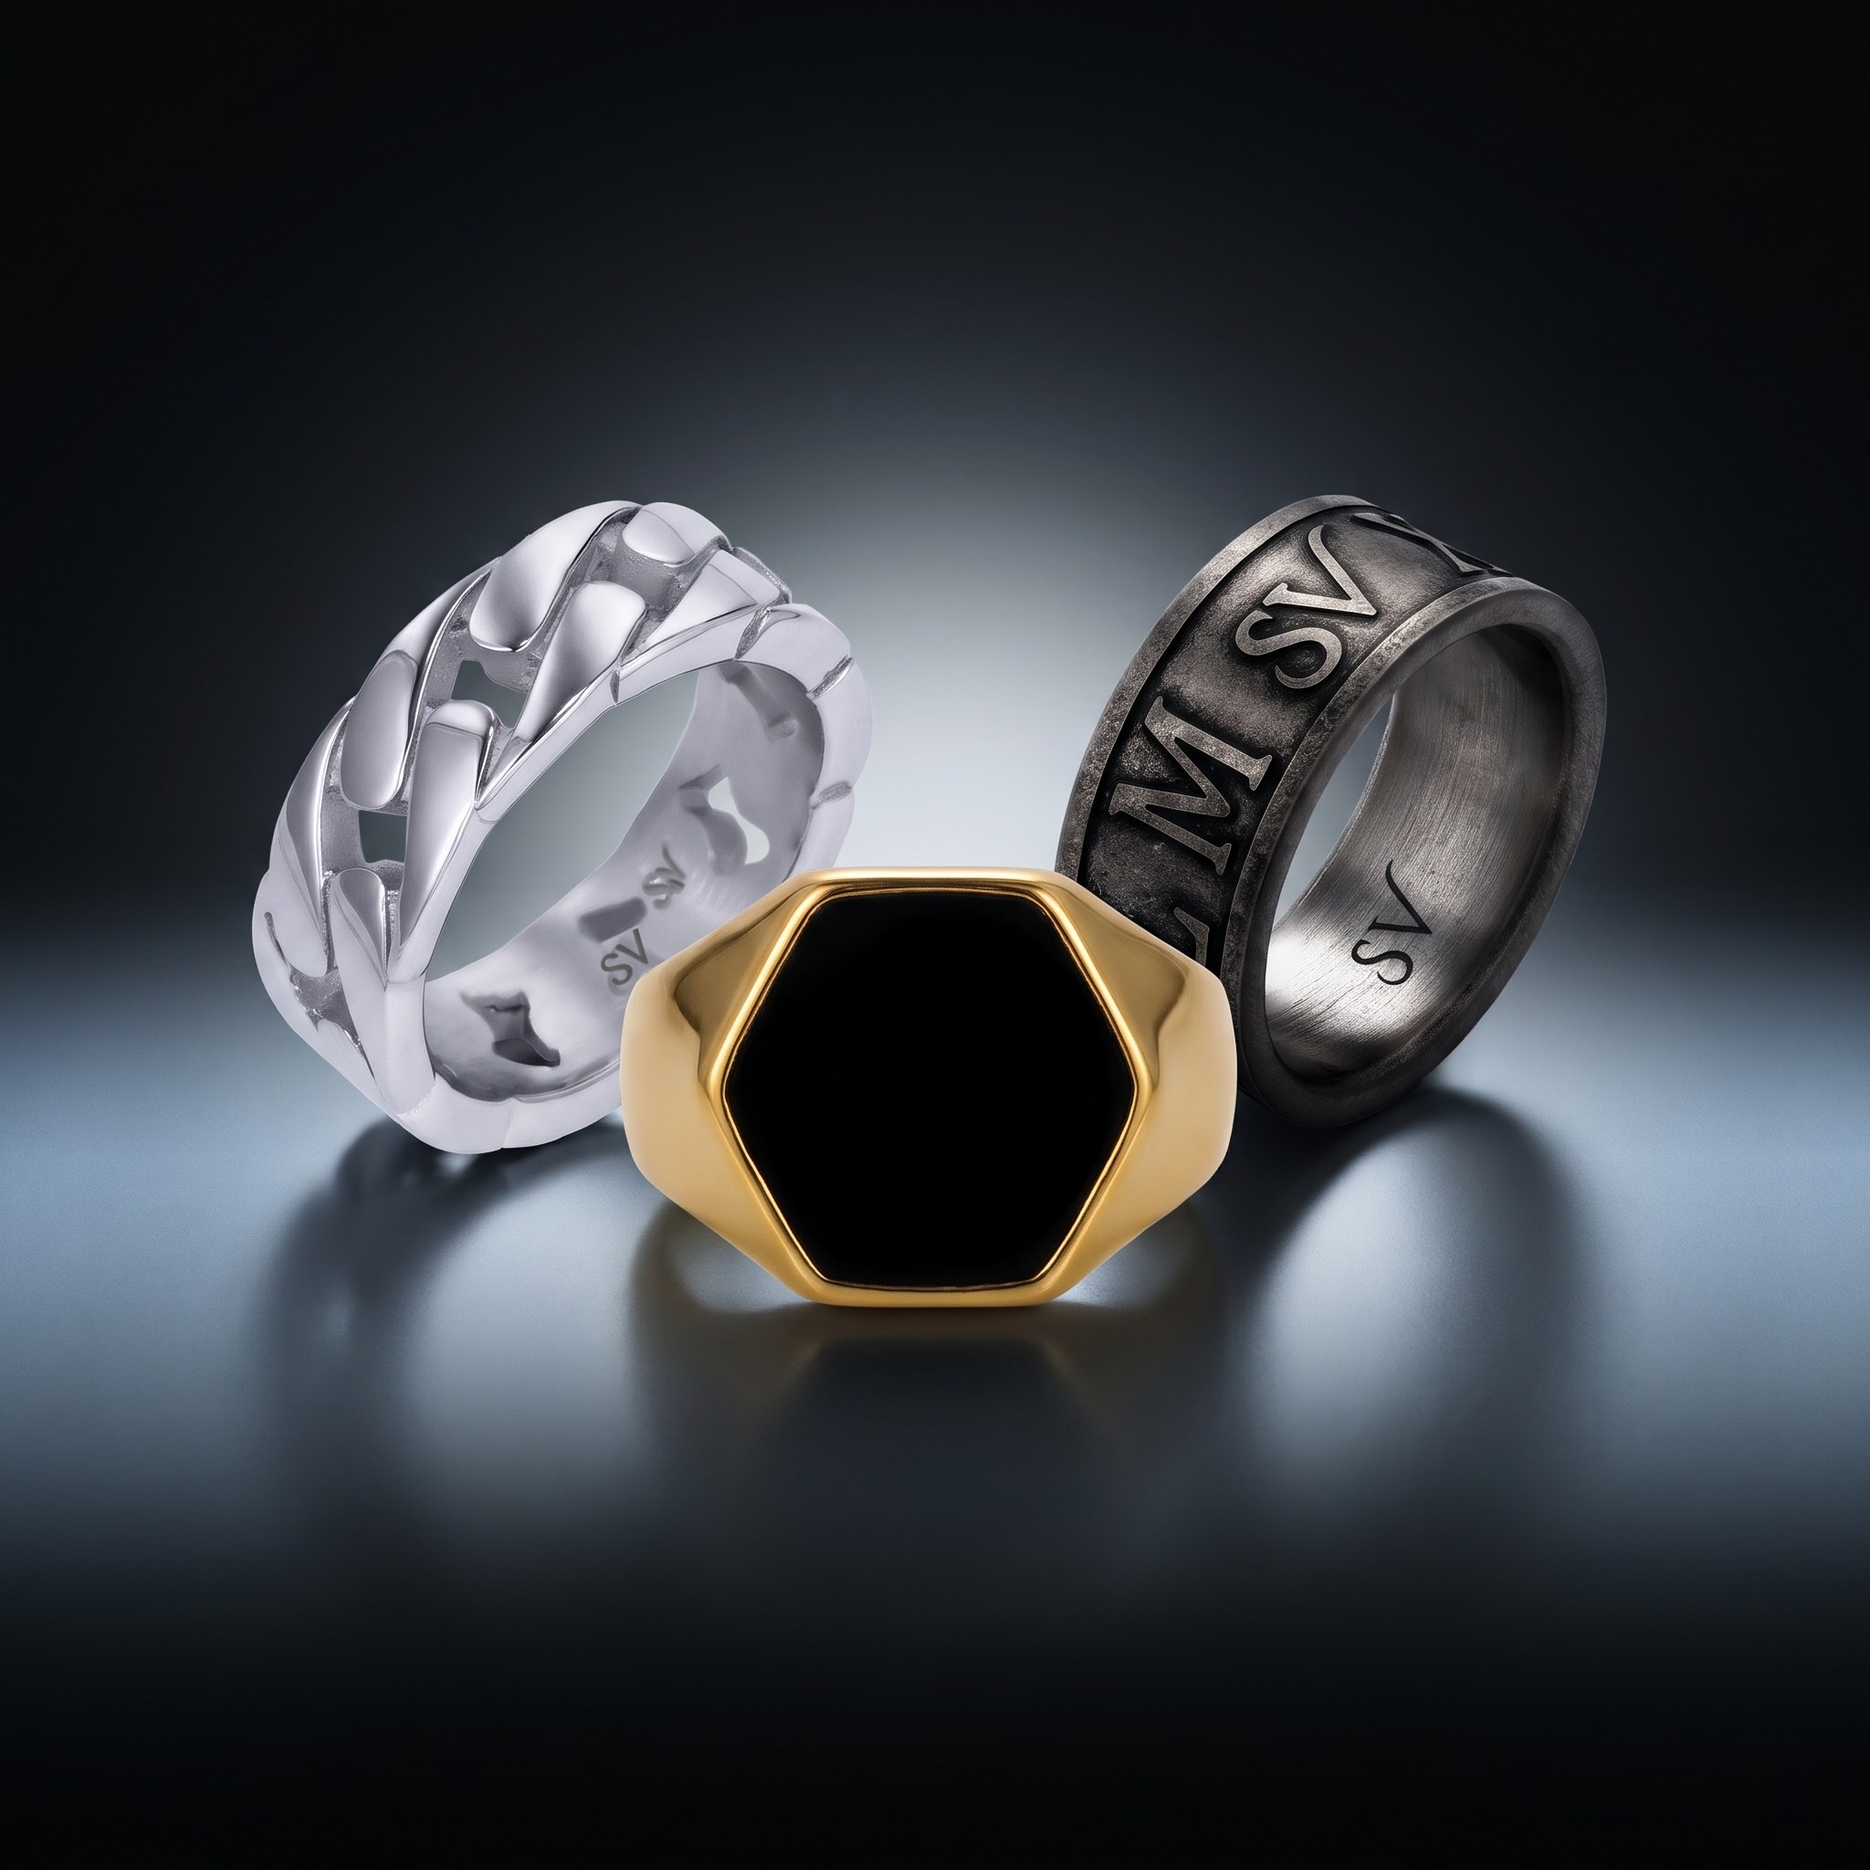
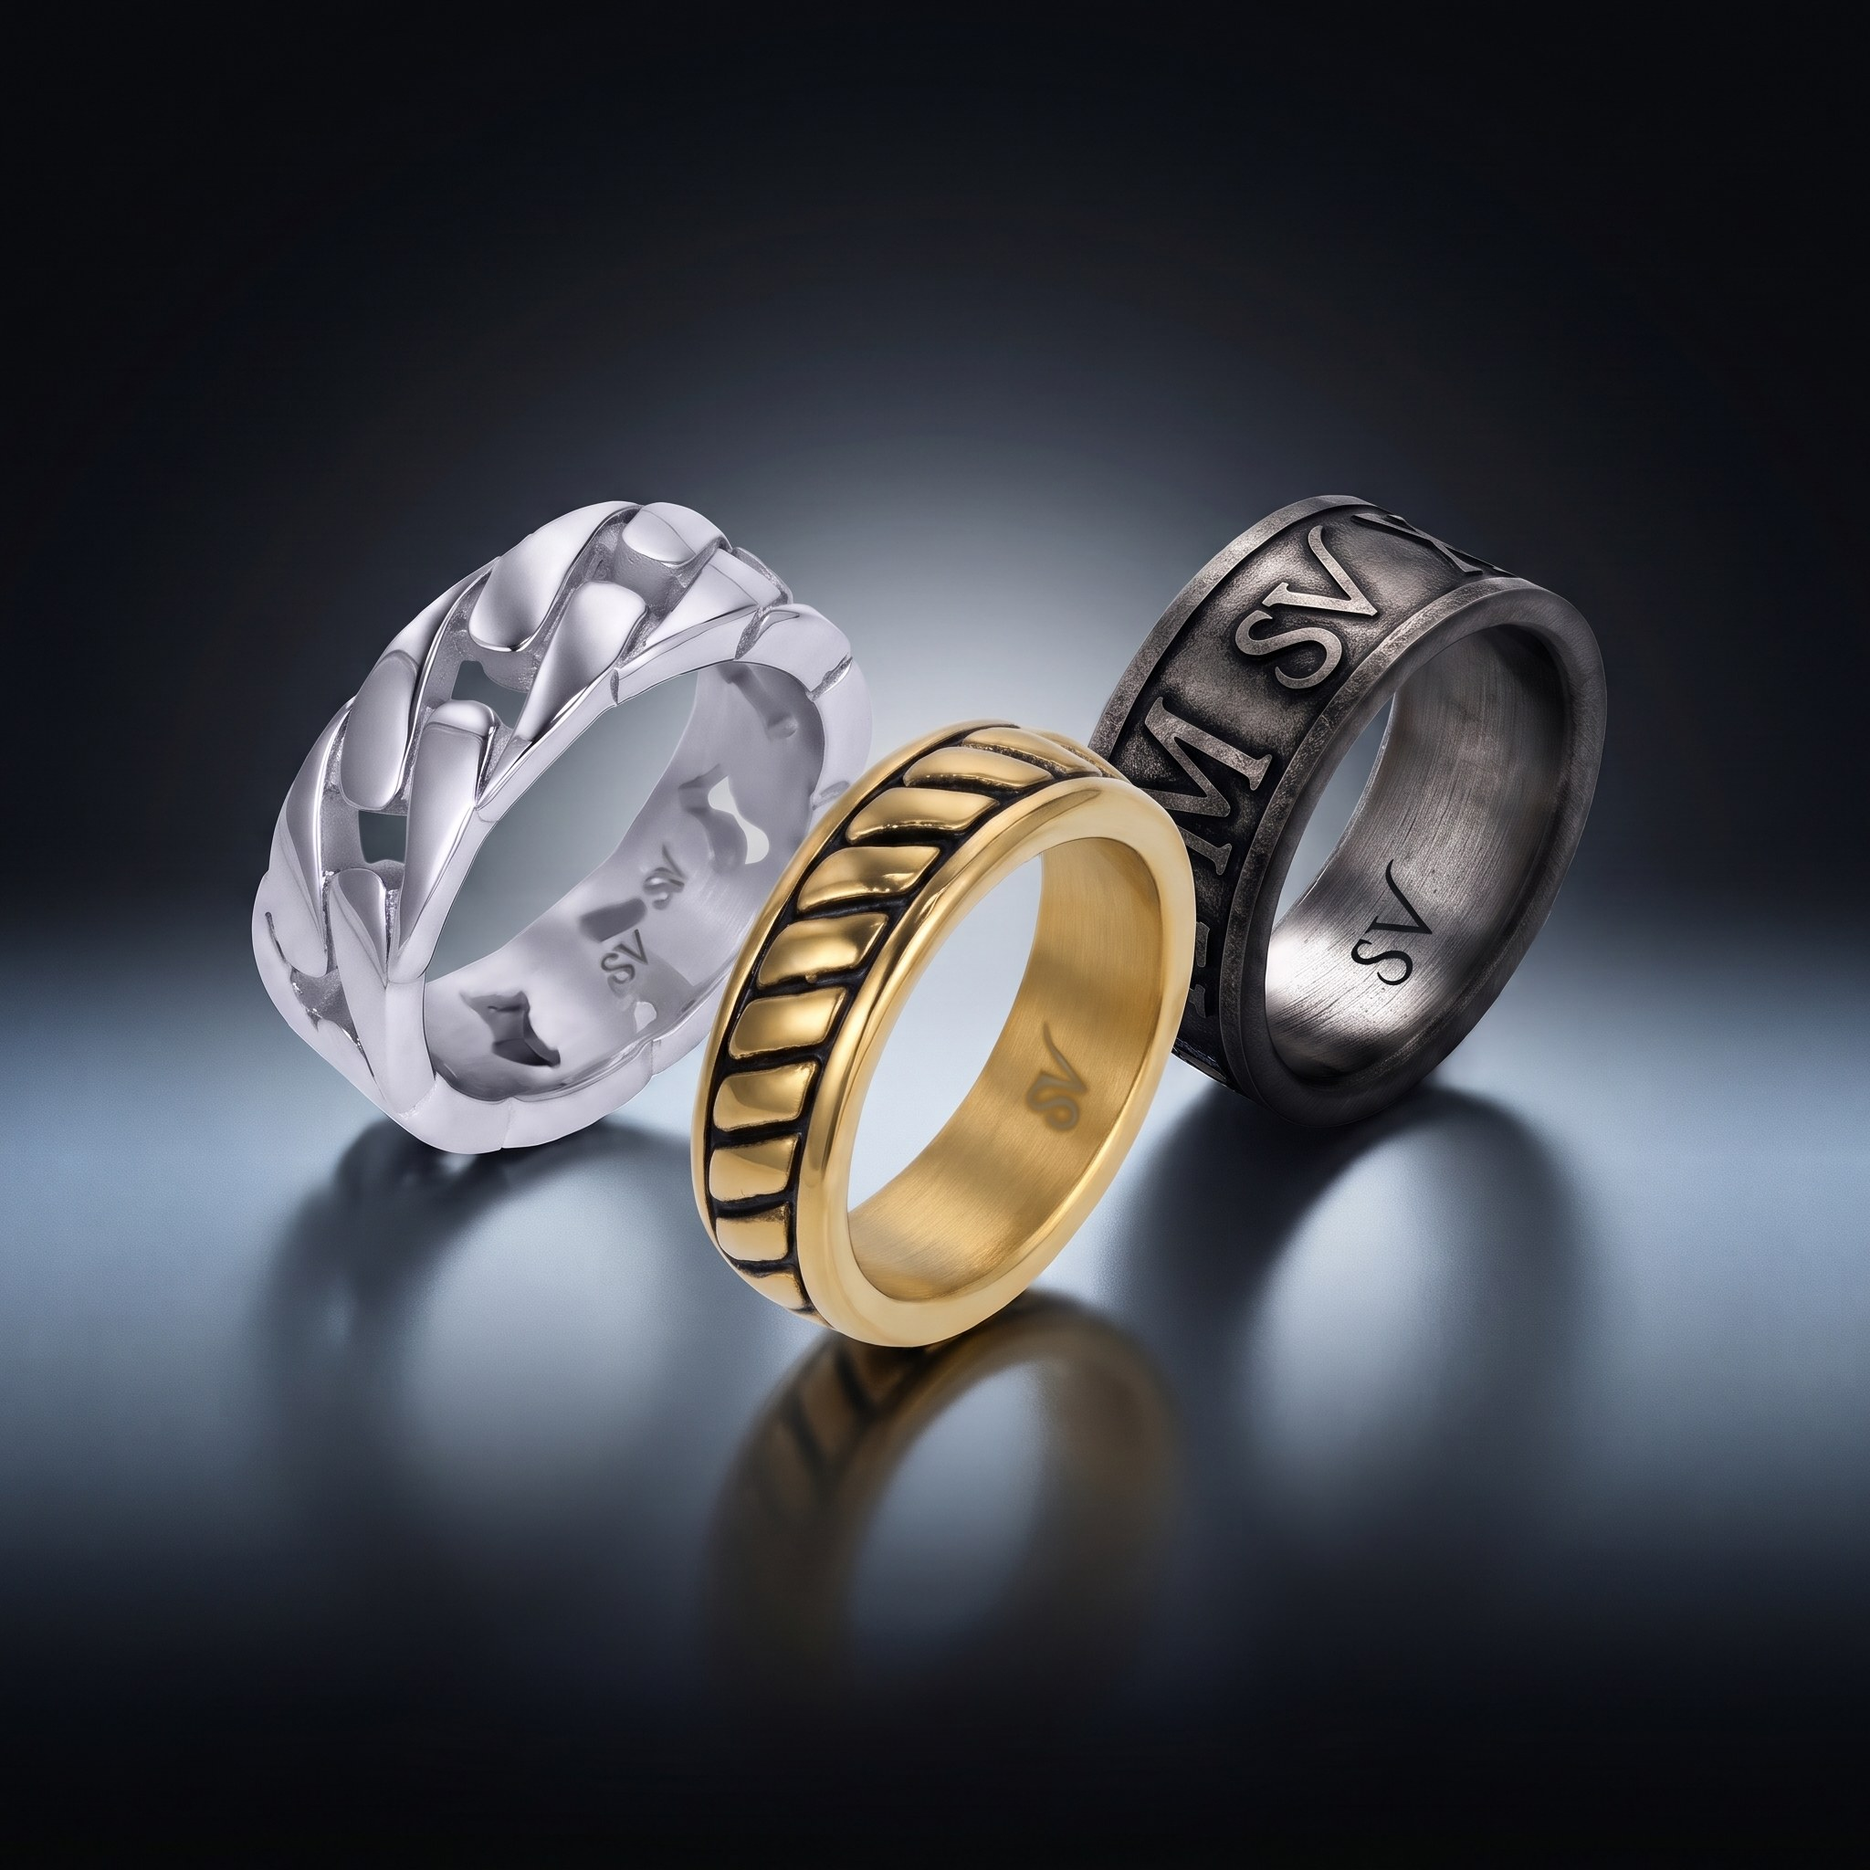
Inicio: foto de anillos con el Eros Oro, y el botón de fotos reemplaza el archivo con el mismo nombre

diff --git a/admin/app.js b/admin/app.js
@@ -1,49 +1,49 @@
 /* Saint Venik · Panel de la app. Sin framework ni paso de compilacion: son
  * archivos estaticos que el admin de Shopify carga embebidos. */
-import { estaEmbebida } from './api.js?v=202611092003';
+import { estaEmbebida } from './api.js?v=202611092012';
 import {
   cargarColores, guardarColor, crearColor, borrarColor, problemasDe, ordenarComoLaTienda,
   guardarImagenColor, camposDeColor,
-} from './colores.js?v=202611092003';
+} from './colores.js?v=202611092012';
 import {
   leerConfig, guardarOrdenColores, guardarTextosBoton, guardarApariencia,
   guardarPildora, camposDeConfig, PILDORA_POR_DEFECTO,
   guardarDescuento, guardarMenu, guardarInicio, DESCUENTO_POR_DEFECTO, FORMATOS_DESCUENTO, textoDescuento, contarConDescuento,
   guardarTransicion, TRANSICION_POR_DEFECTO, guardarFiltrosConfig, FILTROS_POR_DEFECTO,
-} from './config.js?v=202611092003';
+} from './config.js?v=202611092012';
 import {
   FILTROS as FILTROS_PRODUCTO, cargarBotones, crearBoton, guardarBoton, borrarBoton,
   cargarProductosFiltro, guardarClasificacion, sugerir,
-} from './filtros.js?v=202611092003';
+} from './filtros.js?v=202611092012';
 import {
   buscarProductos, todosLosProductos, vincular, desvincular, sinHermano, sinColor, ponerEtiquetaColor,
-} from './productos.js?v=202611092003';
-import { prepararNavidad } from './inicio.js?v=202611092003';
-import { subirArchivo, elegirDeBiblioteca, hayBiblioteca, copiarArchivo, reemplazarArchivo } from './archivos.js?v=202611092003';
+} from './productos.js?v=202611092012';
+import { prepararNavidad } from './inicio.js?v=202611092012';
+import { subirArchivo, elegirDeBiblioteca, hayBiblioteca, copiarArchivo, reemplazarArchivo, traerArchivo } from './archivos.js?v=202611092012';
 import {
   estadoEstructura, revisarEstructura, crearEstructura, cargarGuias, GUIAS_INICIALES,
   crearBloque, guardarBloque, borrarBloque, moverBloque, guardarGuia, guardarArchivoDeBloque, NOMBRE_TIPO,
   revisarReparto, crearGuia, TOPE_GUIAS, importarGuias,
-} from './guias.js?v=202611092003';
+} from './guias.js?v=202611092012';
 import {
   guiaHtml, coloresHtml, visible, etiquetaHtml, beneficiosHtml, estiloEtiqueta, conAlfa, iconoHtml,
-} from './vista-previa.js?v=202611092003';
-import { cargarColecciones, cargarEtiquetasDeTienda, esResta, sinSigno, TOPE_REFERENCIAS } from './asignacion.js?v=202611092003';
+} from './vista-previa.js?v=202611092012';
+import { cargarColecciones, cargarEtiquetasDeTienda, esResta, sinSigno, TOPE_REFERENCIAS } from './asignacion.js?v=202611092012';
 import {
   cargarEtiquetas, crearEtiqueta, guardarEtiqueta, borrarEtiqueta,
   sincronizar as sincronizarEtiqueta, cuantosAlcanza as alcanceEtiqueta, camposDeEtiqueta,
   FONDO_POR_DEFECTO, TEXTO_POR_DEFECTO,
-} from './etiquetas.js?v=202611092003';
+} from './etiquetas.js?v=202611092012';
 import {
   cargarBeneficios, crearBeneficio, guardarBeneficio, borrarBeneficio,
   sincronizar as sincronizarBeneficio, cuantosAlcanza as alcanceBeneficio,
   guardarIconoImagen, camposDeBeneficio,
-} from './beneficios.js?v=202611092003';
-import { ICONOS, svgIcono } from './iconos.js?v=202611092003';
+} from './beneficios.js?v=202611092012';
+import { ICONOS, svgIcono } from './iconos.js?v=202611092012';
 
 /* La sella scripts/version.mjs al publicar. No se deduce de la URL porque ahora
  * la URL lleva un sello por minuto para saltarse la cache, no la version. */
-const VERSION = '202611092003';
+const VERSION = '202611092012';
 
 const pantalla = document.getElementById('pantalla');
 const aviso = document.getElementById('aviso');
@@ -924,7 +924,7 @@ async function pintarApariencia() {
           </s-select>
         </s-grid>
         <p class="ayuda" id="i-enlace" hidden>Para verlo antes de encenderlo: <a target="_blank" rel="noopener" href="https://${escapar(tienda)}/?sv-vista=1">abre la tienda con este enlace</a>. Solo lo ve quien entra por ahí.</p>
-        <p class="ayuda">Fotos de colección estilo Jaxxon (9-nov, Nano Banana): este botón las deja en Contenido → Archivos de la tienda como sv-inicio-cadenas.jpg, -pulseras, -colgantes y -anillos. Después se eligen en cada tarjeta de la cuadrícula.</p>
+        <p class="ayuda">Fotos de colección estilo Jaxxon (9-nov, Nano Banana): este botón las deja en Contenido → Archivos de la tienda como sv-inicio-cadenas.jpg, -pulseras, -colgantes y -anillos. Después se eligen en cada tarjeta de la cuadrícula. Si ya estaban, las cambia por la versión más nueva en el mismo archivo, y la tienda la muestra sola (9-nov: anillos con el Eros Oro).</p>
         <p class="ayuda">«Preparar las fotos de Navidad» deja la foto de terciopelo rojo en cada colección. Si ya la tenía, la cambia por la versión más nueva en el mismo archivo, sin crear copias.</p>
         <s-stack direction="inline" gap="base">
           <s-button id="i-fotos">Traer las fotos nuevas a Archivos</s-button>
@@ -2003,8 +2003,10 @@ function conectarInicio(inicio) {
     const base = new URL('fotos-inicio/', location.href.split('?')[0]).href;
     const hechas = [];
     try {
+      /* ?v= para que Shopify no se lleve una copia vieja guardada en GitHub Pages. */
+      const v = Date.now();
       for (const n of ['cadenas', 'pulseras', 'colgantes', 'anillos']) {
-        const r = await copiarArchivo(`${base}sv-inicio-${n}.jpg`);
+        const r = await traerArchivo(`${base}sv-inicio-${n}.jpg?v=${v}`);
         hechas.push(decodeURIComponent((r.url || '').split('/').pop().split('?')[0]));
       }
       avisar(`Fotos en Archivos: ${hechas.join(', ')}`);

diff --git a/admin/archivos.js b/admin/archivos.js
@@ -10,7 +10,7 @@
  * Por eso se comprueba el host ANTES de intentarlo y, si no es de los conocidos,
  * se explica que paso en vez de dejar un error mudo.
  */
-import { gql, comprobarErrores } from './api.js?v=202611092003';
+import { gql, comprobarErrores } from './api.js?v=202611092012';
 
 const HOSTS_CON_CORS = /(storage\.googleapis\.com|s3\.amazonaws\.com)$/;
 
@@ -198,4 +198,27 @@ export async function reemplazarArchivo(id, url) {
   }
   if (!ultimo) throw new Error('El archivo tarda más de lo normal en procesarse. Recarga en un momento.');
   return { id: ultimo.id, url: urlDe(ultimo) };
+}
+
+/* Trae a Archivos la foto de `url` con su mismo nombre. Si ya hay un archivo
+ * con ese nombre exacto, le cambia el contenido: el tema lo pide por nombre
+ * (shopify://shop_images/sv-inicio-anillos.jpg) y una copia nueva quedaria
+ * como sv-inicio-anillos_1a2b.jpg, que nadie usa. Si no hay, lo crea. */
+const POR_NOMBRE = `
+  query ArchivoPorNombre($q: String!) {
+    files(first: 25, query: $q) {
+      nodes { id ... on MediaImage { image { url } } ... on GenericFile { url } }
+    }
+  }
+`;
+
+export async function traerArchivo(url, opciones) {
+  const absoluta = url.startsWith('//') ? `https:${url}` : url;
+  const nombre = decodeURIComponent(new URL(absoluta).pathname.split('/').pop() || '');
+  const base = nombre.replace(/\.[^.]+$/, '');
+  const { files } = await gql(POR_NOMBRE, { q: base }, { sinMemoria: true });
+  const nombreDe = (n) => decodeURIComponent((n.image?.url ?? n.url ?? '').split('?')[0].split('/').pop());
+  const mismo = files.nodes.find((n) => nombreDe(n) === nombre);
+  if (mismo) return { ...(await reemplazarArchivo(mismo.id, absoluta)), reemplazado: true };
+  return copiarArchivo(absoluta, opciones);
 }

diff --git a/admin/guias.js b/admin/guias.js
@@ -26,16 +26,16 @@
  * con "La capacidad no esta activada: publishable", y aqui no aporta nada: la
  * visibilidad en la tienda ya la decide PUBLIC_READ.
  */
-import { gql, comprobarErrores, capacidadActiva, enUnaPasada } from './api.js?v=202611092003';
-import { asegurarConfig, existeConfig, faltanCamposConfig } from './config.js?v=202611092003';
-import { faltaEstructuraColor, asegurarEstructuraColor } from './colores.js?v=202611092003';
-import { copiarArchivo } from './archivos.js?v=202611092003';
-import { faltaEstructuraEtiquetas, asegurarEstructuraEtiquetas } from './etiquetas.js?v=202611092003';
-import { faltaEstructuraFiltros, asegurarEstructuraFiltros } from './filtros.js?v=202611092003';
+import { gql, comprobarErrores, capacidadActiva, enUnaPasada } from './api.js?v=202611092012';
+import { asegurarConfig, existeConfig, faltanCamposConfig } from './config.js?v=202611092012';
+import { faltaEstructuraColor, asegurarEstructuraColor } from './colores.js?v=202611092012';
+import { copiarArchivo } from './archivos.js?v=202611092012';
+import { faltaEstructuraEtiquetas, asegurarEstructuraEtiquetas } from './etiquetas.js?v=202611092012';
+import { faltaEstructuraFiltros, asegurarEstructuraFiltros } from './filtros.js?v=202611092012';
 import {
   faltaEstructuraBeneficios, asegurarEstructuraBeneficios, sembrarBeneficios,
-} from './beneficios.js?v=202611092003';
-import { faltaEstructuraInicio, asegurarEstructuraInicio } from './inicio.js?v=202611092003';
+} from './beneficios.js?v=202611092012';
+import { faltaEstructuraInicio, asegurarEstructuraInicio } from './inicio.js?v=202611092012';
 
 export const TIPO_BLOQUE = 'bloque_guia';
 

diff --git a/admin/filtros.js b/admin/filtros.js
@@ -23,11 +23,11 @@
  * filtro de Shopify puesto (?filter.p.m.custom.sv_color=Dorado). Asi los
  * botones, el menu «Filtrar» y la paginacion dicen siempre lo mismo.
  */
-import { gql, comprobarErrores } from './api.js?v=202611092003';
+import { gql, comprobarErrores } from './api.js?v=202611092012';
 import {
   aObjetoComun, cargarEntradas, crearEntrada, guardarEntrada, borrarEntrada,
   faltaEstructura, asegurarEstructura, TOPE_ENTRADAS,
-} from './asignacion.js?v=202611092003';
+} from './asignacion.js?v=202611092012';
 
 /* ---------------------------------------------------------------------------
  * Los tres metacampos de producto

diff --git a/admin/beneficios.js b/admin/beneficios.js
@@ -16,8 +16,8 @@ import {
   CAMPOS_COMUNES, aObjetoComun, cargarEntradas, camposComunes, crearEntrada,
   guardarEntrada, borrarEntrada, faltaEstructura, asegurarEstructura,
   resolverHandles, camposDeTipo, TOPE_ENTRADAS,
-} from './asignacion.js?v=202611092003';
-import { gql } from './api.js?v=202611092003';
+} from './asignacion.js?v=202611092012';
+import { gql } from './api.js?v=202611092012';
 
 export const TIPO_BENEFICIO = 'sv_beneficio';
 export const TOPE_BENEFICIOS = TOPE_ENTRADAS;

diff --git a/admin/config.js b/admin/config.js
@@ -8,7 +8,7 @@
  * el mecanismo que ya está probado de punta a punta en esta app (se escribe
  * desde el panel, se lee desde Liquid), y no añade permisos nuevos.
  */
-import { gql, comprobarErrores } from './api.js?v=202611092003';
+import { gql, comprobarErrores } from './api.js?v=202611092012';
 
 export const TIPO_CONFIG = 'sv_configuracion';
 /* Shopify admite como mucho 40 campos por definición de metaobjeto y

diff --git a/admin/etiquetas.js b/admin/etiquetas.js
@@ -12,7 +12,7 @@ import {
   CAMPOS_COMUNES, aObjetoComun, cargarEntradas, camposComunes, crearEntrada,
   guardarEntrada, borrarEntrada, faltaEstructura, asegurarEstructura,
   resolverHandles, camposDeTipo, TOPE_ENTRADAS,
-} from './asignacion.js?v=202611092003';
+} from './asignacion.js?v=202611092012';
 
 export const TIPO_ETIQUETA = 'sv_etiqueta';
 export const TOPE_ETIQUETAS = TOPE_ENTRADAS;

diff --git a/admin/inicio.js b/admin/inicio.js
@@ -1,7 +1,7 @@
 /* Inicio de la tienda: la cuadrícula de colecciones sobre negro (reunión
  * 9-nov). En Navidad, cada foto es la del metacampo de colección
  * custom.foto_navidad, que esta app crea. */
-import { gql, comprobarErrores } from './api.js?v=202611092003';
+import { gql, comprobarErrores } from './api.js?v=202611092012';
 
 const METACAMPO_NAVIDAD = `
   query MetacampoNavidad {

diff --git a/admin/asignacion.js b/admin/asignacion.js
@@ -19,7 +19,7 @@
  * y el storefront, en una pagina de coleccion, se fia de la coleccion y no de
  * la cadena.
  */
-import { gql, comprobarErrores, capacidadActiva } from './api.js?v=202611092003';
+import { gql, comprobarErrores, capacidadActiva } from './api.js?v=202611092012';
 
 /* Los campos que comparten los dos tipos. Cada pantalla añade los suyos. */
 export const CAMPOS_COMUNES = [

diff --git a/admin/productos.js b/admin/productos.js
@@ -9,7 +9,7 @@
  * selector apareciendo en una ficha y no en la otra, que es un fallo molesto de
  * encontrar porque cada ficha por separado parece correcta.
  */
-import { gql, comprobarErrores } from './api.js?v=202611092003';
+import { gql, comprobarErrores } from './api.js?v=202611092012';
 
 const NAMESPACE = 'custom';
 const CLAVE = 'hermano_de_color';

diff --git a/admin/colores.js b/admin/colores.js
@@ -5,7 +5,7 @@
  * color es la etiqueta: el producto lleva `oro` o `acero-inox`, y la entrada
  * guarda esa misma etiqueta en el campo `etiqueta`.
  */
-import { gql, comprobarErrores, capacidadActiva } from './api.js?v=202611092003';
+import { gql, comprobarErrores, capacidadActiva } from './api.js?v=202611092012';
 
 export const TIPO_COLOR = 'color';
 

diff --git a/admin/vista-previa.js b/admin/vista-previa.js
@@ -6,7 +6,7 @@
  * que los pone el tema; en estructura, orden y visibilidad por idioma, no.
  */
 
-import { svgIcono } from './iconos.js?v=202611092003';
+import { svgIcono } from './iconos.js?v=202611092012';
 
 const ID_YOUTUBE = /(?:youtube\.com\/(?:watch\?v=|embed\/)|youtu\.be\/)([\w-]{11})/;
 
